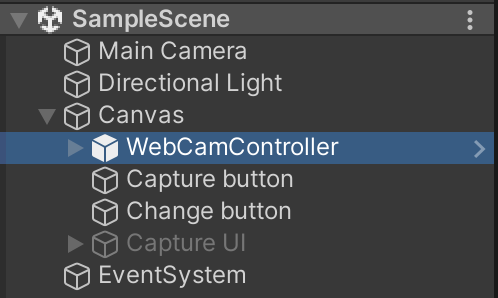
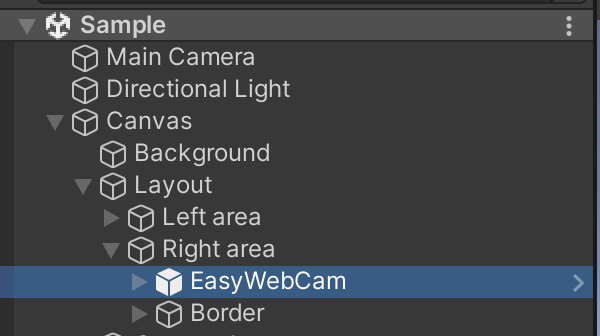
웹캠 포스트 내용 수정

diff --git a/_posts/22-12-03-web-cam-controller.md b/_posts/22-12-03-web-cam-controller.md
@@ -20,90 +20,90 @@ layout: post
 * 캡쳐
     * 프리뷰에 보이는 카메라 이미지를 캡쳐해서 Unity의 Texture2D 또는 Sprite로 내보내는 기능이다. 이 때에도 화면의 방향과 뒤집힘을 보정해야 한다.
 
-## WebCamController
+## EasyWebCam
 
-위의 요구사항들을 만족하는 WebCamTexture의 Wrapper인 [WebCamController](https://github.com/lklab/WebCamController)를 구현하였다. 다음은 WebCamController를 사용하는 방법에 대해 서술한다.
+위의 요구사항들을 만족하는 WebCamTexture의 Wrapper인 [EasyWebCam](https://github.com/lklab/EasyWebCam)를 구현하였다. 다음은 EasyWebCam을 사용하는 방법에 대해 서술한다.
 
 ### UI에서 프리뷰 영역 설정 
 
-[유니티 프로젝트](https://github.com/lklab/WebCamController)에서 `SampleScene` 씬을 열면, 아래 그림과 같이 `WebCamController` 프리팹을 확인할 수 있다.
+[유니티 프로젝트](https://github.com/lklab/EasyWebCam/tree/master/EasyWebCam)에서 `Sample/Sample` 씬을 열면, 아래 그림과 같이 `EasyWebCam` 프리팹을 확인할 수 있다.
 
 ![Prefab]({{site.baseurl}}/assets/post/22-12-03-web-cam-controller/prefab.png)
 
-이 프리팹의 `RectTransform`이 정의하는 영역이 프리뷰가 출력될 영역이다. `SampleScene` 씬에서는 전체화면으로 되어 있지만 화면의 일부 영역에만 프리뷰를 출력하도록 설정할 수 있다.
+이 프리팹의 `RectTransform`이 정의하는 영역이 프리뷰가 출력될 영역이다. `RectTransform`을 자유롭게 조절해서 프리뷰를 출력할 영역을 지정할 수 있다. 
 
-UI 상의 프리뷰 영역과 디바이스 카메라를 통해 받아온 이미지의 종횡비(Aspect ratio)가 다르다면 프리뷰 영역을 꽉 채우고 카메라 이미지의 나머지 부분은 잘리도록 되어 있다. 만약 프리뷰 영역에 빈 공간이 생기더라도 잘리지 않기를 원하면 `WebCamController` > `Viewport` > `RawImage` 게임오브젝트에 있는 `Aspect Ratio Fitter` 컴포넌트의 `Aspect Mode` 를 `Fit In Parent`로 설정하면 된다.
+UI 상의 프리뷰 영역과 디바이스 카메라를 통해 받아온 이미지의 종횡비(Aspect ratio)가 다르다면 프리뷰 영역을 꽉 채우고 카메라 이미지의 나머지 부분은 잘리도록 되어 있다. 만약 프리뷰 영역에 빈 공간이 생기더라도 잘리지 않기를 원하면 `EasyWebCam` > `Viewport` > `RawImage` 게임오브젝트에 있는 `Aspect Ratio Fitter` 컴포넌트의 `Aspect Mode` 를 `Fit In Parent`로 설정하면 된다.
 
-### WebCamController 인스펙터 설정
+### EasyWebCam 인스펙터 설정
 
-* `Web Cam Resolution`: 카메라의 해상도를 설정한다. 기기의 카메라에서 지원하지 않는 해상도인 경우 가장 비슷한 해상도로 설정된다. `WebCamController.StartWebCam()`의 파라미터로 해상도를 명시한 경우 이 값 대신 파라미터로 전달한 해상도가 사용된다.
-* `Web Cam FPS`: 카메라의 프레임률을 설정한다. 기기의 카메라에서 지원하지 않는 프레임률인 경우 가장 비슷한 프레임률로 설정된다. `WebCamController.StartWebCam()`의 파라미터로 프레임률을 명시한 경우 이 값 대신 파라미터로 전달한 프레임률이 사용된다.
-* `Use Front Facing`: 전면 카메라를 사용할지 여부를 설정한다. 만약 사용할 전면/후면 카메라가 기기에 없는 경우 `WebCamController.StartWebCam()`은 `Error.NotSupported`를 반환한다. `WebCamController.StartWebCam()`의 파라미터로 전면카메라 여부를 명시한 경우 이 값 대신 파라미터로 전달한 전면카메라 여부 값이 사용된다.
-* `Auto Resize Viewport`: 기기의 회전이나 카메라 초기화/변경 등으로 카메라의 속성이 변경될 경우 이를 감지해서 자동으로 뷰포트의 크기를 조절할지 여부를 설정한다. 최적화를 위해 이 값을 `false`로 설정하고 직접 `WebCamController.Resize()`를 호출하도록 구현할 수 있다.
+* `Web Cam Resolution`: 카메라의 해상도를 설정한다. 기기의 카메라에서 지원하지 않는 해상도인 경우 가장 비슷한 해상도로 설정된다. `EasyWebCam.WebCam.StartWebCam()`의 파라미터로 해상도를 명시한 경우 이 값 대신 파라미터로 전달한 해상도가 사용된다.
+* `Web Cam FPS`: 카메라의 프레임률을 설정한다. 기기의 카메라에서 지원하지 않는 프레임률인 경우 가장 비슷한 프레임률로 설정된다. `EasyWebCam.WebCam.StartWebCam()`의 파라미터로 프레임률을 명시한 경우 이 값 대신 파라미터로 전달한 프레임률이 사용된다.
+* `Use Front Facing`: 전면 카메라를 사용할지 여부를 설정한다. 만약 사용할 전면/후면 카메라가 기기에 없는 경우 `EasyWebCam.WebCam.StartWebCam()`은 `Error.NotSupported`를 반환한다. `EasyWebCam.WebCam.StartWebCam()`의 파라미터로 전면카메라 여부를 명시한 경우 이 값 대신 파라미터로 전달한 전면카메라 여부 값이 사용된다.
+* `Auto Resize Viewport`: 기기의 회전이나 카메라 초기화/변경 등으로 카메라의 속성이 변경될 경우 이를 감지해서 자동으로 뷰포트의 크기를 조절할지 여부를 설정한다. 최적화를 위해 이 값을 `false`로 설정하고 직접 `EasyWebCam.WebCam.Resize()`를 호출하도록 구현할 수 있다.
 * `Capture Thread Count`: 캡쳐하는 경우 이미지 회전/반전을 위해 이미지 복사가 일어나는데 이를 수행할 스레드의 개수를 설정한다.
 
 ### 초기화
 
-가장 먼저 `using LKWebCam;`를 선언한다.
+가장 먼저 `using EasyWebCam;`를 선언한다.
 
-그 다음에 `WebCamController` 인스턴스를 인스펙터를 통해 받아온다.
+그 다음에 `WebCam` 인스턴스를 인스펙터를 통해 받아온다.
 
 {% highlight csharp %}
-[SerializeField] private WebCamController _webCamController;
+[SerializeField] private WebCam _webCam;
 
 {% endhighlight %}
 
-`WebCamController.Initialize()`를 호출한다.
+`WebCam.Initialize()`를 호출한다.
 
 {% highlight csharp %}
 private void Start()
 {
-    _webCamController.Initialize();
+    _webCam.Initialize();
 }
 
 {% endhighlight %}
 
-`WebCamController.Initialize()`는 WebCamController.Awake()에서도 호출되기 때문에 반드시 호출하지 않아도 무방하나, 스크립트 실행순서 때문에 초기화하지 않고 사용하는 것을 방지하기 위해 호출하는 것을 권장한다.
+`WebCam.Initialize()`는 WebCam.Awake()에서도 호출되기 때문에 반드시 호출하지 않아도 무방하나, 스크립트 실행순서 때문에 초기화하지 않고 사용하는 것을 방지하기 위해 호출하는 것을 권장한다.
 
 ### 권한 요청
 
-`WebCamController.RequestPermission()`을 호출한다.
+`WebCam.RequestPermission()`을 호출한다.
 
 {% highlight csharp %}
 private void Start()
 {
-    _webCamController.Initialize();
-    _webCamController.RequestPermission((WebCamController.Error error) =>
+    _webCam.Initialize();
+    _webCam.RequestPermission((WebCam.Error error) =>
     {
-        if (error == WebCamController.Error.Success)
+        if (error == WebCam.Error.Success)
         { }
     });
 }
 
 {% endhighlight %}
 
-권한을 성공적으로 획득하면 콜백 파라미터로 `WebCamController.Error.Success`를 받아온다. 앱이 이미 권한을 갖고 있는 경우에도 콜백 파라미터로 `WebCamController.Error.Success`를 받아온다.
+권한을 성공적으로 획득하면 콜백 파라미터로 `WebCam.Error.Success`를 받아온다. 앱이 이미 권한을 갖고 있는 경우에도 콜백 파라미터로 `WebCam.Error.Success`를 받아온다.
 
-사용자가 권한을 거부한 경우 콜백 파라미터로 `WebCamController.Error.Permission`을 받아온다.
+사용자가 권한을 거부한 경우 콜백 파라미터로 `WebCam.Error.Permission`을 받아온다.
 
 ### 프리뷰 시작
 
-권한을 성공적으로 받아온 경우 `WebCamController.StartWebCam()`을 호출해서 프리뷰를 시작한다.
+권한을 성공적으로 받아온 경우 `WebCam.StartWebCam()`을 호출해서 프리뷰를 시작한다.
 
 {% highlight csharp %}
 private void Start()
 {
-    _webCamController.Initialize();
-    _webCamController.RequestPermission((WebCamController.Error error) =>
+    _webCam.Initialize();
+    _webCam.RequestPermission((WebCam.Error error) =>
     {
-        if (error == WebCamController.Error.Success)
-            _webCamController.StartWebCam();
+        if (error == WebCam.Error.Success)
+            _webCam.StartWebCam();
     });
 }
 
 {% endhighlight %}
 
-파라미터가 없는 `WebCamController.StartWebCam()`을 호출한 경우 다음 항목들은 인스펙터의 `WebCamController` 컴포넌트에 설정된대로 프리뷰가 시작된다.
+파라미터가 없는 `WebCam.StartWebCam()`을 호출한 경우 다음 항목들은 인스펙터의 `WebCam` 컴포넌트에 설정된대로 프리뷰가 시작된다.
 
 * 전면카메라 또는 후면카메라
     * 전면카메라인 경우 자동으로 좌우반전이 적용됨
@@ -112,20 +112,20 @@ private void Start()
 
 또는 다음 함수를 호출해서 위의 설정값을 직접 지정해줄 수 있다.
 
-* `WebCamController.StartWebCam(bool useFrontFacing, Vector2Int resolution, int fps, bool flipHorizontally)`
-* `WebCamController.StartWebCam(int deviceIndex, Vector2Int resolution, int fps, bool flipHorizontally)`
-* `WebCamController.StartWebCam(WebCamDevice device, Vector2Int resolution, int fps, bool flipHorizontally)`
+* `WebCam.StartWebCam(bool useFrontFacing, Vector2Int resolution, int fps, bool flipHorizontally)`
+* `WebCam.StartWebCam(int deviceIndex, Vector2Int resolution, int fps, bool flipHorizontally)`
+* `WebCam.StartWebCam(WebCamDevice device, Vector2Int resolution, int fps, bool flipHorizontally)`
 
-프리뷰를 더 이상 사용하지 않을 경우 `WebCamController.StopWebCam()`을 호출하면 된다.
+프리뷰를 더 이상 사용하지 않을 경우 `WebCam.StopWebCam()`을 호출하면 된다.
 
 ### 캡쳐
 
-현재 프리뷰 화면을 캡쳐하고 싶은 경우 `WebCamController.Capture()`를 호출해서 `Texture2D` 객체를 받아오면 된다.
+현재 프리뷰 화면을 캡쳐하고 싶은 경우 `WebCam.Capture()`를 호출해서 `Texture2D` 객체를 받아오면 된다.
 
 {% highlight csharp %}
 _captureButton.onClick.AddListener(delegate
 {
-    Texture2D texture = _webCamController.Capture();
+    Texture2D texture = _webCam.Capture();
 });
 
 {% endhighlight %}
@@ -135,7 +135,7 @@ _captureButton.onClick.AddListener(delegate
 {% highlight csharp %}
 _captureButton.onClick.AddListener(delegate
 {
-    Texture2D texture = _webCamController.Capture();
+    Texture2D texture = _webCam.Capture();
     Sprite sprite = Sprite.Create(
         texture,
         new Rect(0.0f, 0.0f, texture.width, texture.height),
@@ -156,7 +156,7 @@ _captureButton.onClick.AddListener(delegate
         Destroy(mCapturedImage);
     }
 
-    Texture2D texture = _webCamController.Capture();
+    Texture2D texture = _webCam.Capture();
     mCapturedImage = Sprite.Create(
         texture,
         new Rect(0.0f, 0.0f, texture.width, texture.height),
@@ -180,7 +180,7 @@ private void OnDestroy()
 }
 {% endhighlight %}
 
-`WebCamController.Capture()`는 현재 기기의 orientation과 전면 카메라 여부에 따라 rotation 및 flip을 자동으로 계산한다. 만약 해당 값들을 직접 지정하고 싶은 경우 `WebCamController.Capture(float rotationAngle, bool flipHorizontally, bool clip)` 함수를 사용하면 된다. 이 때 이미지를 회전하고 반전하는 과정에서 이미지 복사가 일어나는데, 비동기적으로 복사가 완료된 후 콜백을 받고 싶다면 `WebCamController.Capture()` 대신 `WebCamController.CaptureAsync()`를 호출하면 된다.
+`WebCam.Capture()`는 현재 기기의 orientation과 전면 카메라 여부에 따라 rotation 및 flip을 자동으로 계산한다. 만약 해당 값들을 직접 지정하고 싶은 경우 `WebCam.Capture(float rotationAngle, bool flipHorizontally, bool clip)` 함수를 사용하면 된다. 이 때 이미지를 회전하고 반전하는 과정에서 이미지 복사가 일어나는데, 비동기적으로 복사가 완료된 후 콜백을 받고 싶다면 `WebCam.Capture()` 대신 `WebCam.CaptureAsync()`를 호출하면 된다.
 
 카메라 원본 이미지와 UI 상의 프리뷰 영역의 종횡비가 달라 원본 이미지가 잘려서 출력되는 경우 캡쳐된 이미지도 화면에 보이는 부분만 캡쳐되도록 이미지를 자른다. 만약 이미지를 자르지 않기 원하면 `clip` 파라미터를 `false` 로 설정하면 된다.
 
@@ -188,7 +188,7 @@ private void OnDestroy()
 
 ### 권한 요청
 
-권한 요청은 `WebCamController.AcquireWebCamPermission()` 함수에서 수행한다. 크게 안드로이드 부분과 iOS 부분으로 나뉘어 있다.
+권한 요청은 `WebCam.AcquireWebCamPermission()` 함수에서 수행한다. 크게 안드로이드 부분과 iOS 부분으로 나뉘어 있다.
 
 Android
 
@@ -269,13 +269,13 @@ else
 
 {% endhighlight %}
 
-뷰포트 영역을 제어하는 `WebCamViewport`에 `WebCamTexture` 객체를 전달한다. 이후 `WebCamViewport` 내부의 `RawImage` 컴포넌트에서 프리뷰가 UI에 출력된다. 전면 카메라를 사용하는 등의 이유로 좌우반전이 필요하면 뷰포트의 x 스케일 값을 `-1.0f`로 설정한다.
+뷰포트 영역을 제어하는 `Viewport`에 `WebCamTexture` 객체를 전달한다. 이후 `Viewport` 내부의 `RawImage` 컴포넌트에서 프리뷰가 UI에 출력된다. 전면 카메라를 사용하는 등의 이유로 좌우반전이 필요하면 뷰포트의 x 스케일 값을 `-1.0f`로 설정한다.
 
-`_autoResizeViewport`가 `true`로 설정된 경우 `WebCamViewport`의 Auto resizing 기능을 활성화해서 기기의 회전이나 카메라의 회전/반전 속성이 변경된 경우 자동으로 뷰포트를 그에 맞게 업데이트한다.
+`_autoResizeViewport`가 `true`로 설정된 경우 `Viewport`의 Auto resizing 기능을 활성화해서 기기의 회전이나 카메라의 회전/반전 속성이 변경된 경우 자동으로 뷰포트를 그에 맞게 업데이트한다.
 
 ### Rotation 및 Flip
 
-프리뷰를 올바르게 출력하려면 기기의 Orientation에 따라 카메라로 들어오는 이미지를 회전하거나 반전해야 한다. 얼마나 회전해야 하는지와 반전해야 하는지 여부는 `WebCamTexture.videoRotationAngle`과 `WebCamTexture.videoVerticallyMirrored` 값을 통해 확인할 수 있다. `WebCamController`에서는 `WebCamViewport.ResizeInternal()` 함수에 해당 기능이 구현되어 있다.
+프리뷰를 올바르게 출력하려면 기기의 Orientation에 따라 카메라로 들어오는 이미지를 회전하거나 반전해야 한다. 얼마나 회전해야 하는지와 반전해야 하는지 여부는 `WebCamTexture.videoRotationAngle`과 `WebCamTexture.videoVerticallyMirrored` 값을 통해 확인할 수 있다. `EasyWebCam`에서는 `Viewport.ResizeInternal()` 함수에 해당 기능이 구현되어 있다.
 
 {% highlight csharp %}
 /* setup params */
@@ -309,10 +309,10 @@ else
 
 rotation과 상하반전은 `_rawImage` 오브젝트에 적용한다. 여기서 90도 또는 270도 회전되는 경우 Viewport 크기에 맞게 `_rawImage`를 확대하거나 축소해야 한다. 이를 위해 `scale` 변수를 계산하여 적용하였다.
 
-`WebCamViewport.ResizeInternal()` 함수는 `WebCamController` 객체의 값이 바뀔 때에만 호출되므로, 만약 UI에서 프리뷰 화면을 변경한 경우 직접 `WebCamController.Resize()` 함수를 호출해서 화면에 프리뷰가 올바르게 출력되도록 할 수 있다.
+`Viewport.ResizeInternal()` 함수는 `WebCam` 객체의 값이 바뀔 때에만 호출되므로, 만약 UI에서 프리뷰 화면을 변경한 경우 직접 `WebCam.Resize()` 함수를 호출해서 화면에 프리뷰가 올바르게 출력되도록 할 수 있다.
 
 ### 캡쳐
 
-현재 프레임의 카메라 화면은 `WebCamTexture` 객체를 통해 가져올 수 있는데, 이전에 언급한 것과 같이 이미지를 회전하고 반전해야 한다. `WebCamTexture.GetPixels32()`를 통해 픽셀별 컬러를 가져온 후 회전, 반전에 따라 새로운 텍스쳐에 알맞은 컬러를 대입한다. 따라서 이미지 복사를 수행해야 하므로 스레드를 사용해서 병렬 처리하도록 되어 있다. 이 때 사용할 스레드의 개수는 인스펙터의 `WebCamController` 컴포넌트에서 `Capture Thread Count` 값으로 설정할 수 있다.
+현재 프레임의 카메라 화면은 `WebCamTexture` 객체를 통해 가져올 수 있는데, 이전에 언급한 것과 같이 이미지를 회전하고 반전해야 한다. `WebCamTexture.GetPixels32()`를 통해 픽셀별 컬러를 가져온 후 회전, 반전에 따라 새로운 텍스쳐에 알맞은 컬러를 대입한다. 따라서 이미지 복사를 수행해야 하므로 스레드를 사용해서 병렬 처리하도록 되어 있다. 이 때 사용할 스레드의 개수는 인스펙터의 `WebCam` 컴포넌트에서 `Capture Thread Count` 값으로 설정할 수 있다.
 
-캡쳐하는 코드는 [링크](https://github.com/lklab/WebCamController/blob/master/Assets/Scripts/WebCamCaptureWorker.cs)로 첨부한다.
+캡쳐하는 코드는 [링크](https://github.com/lklab/EasyWebCam/blob/master/EasyWebCam/Assets/EasyWebCam/Runtime/Scripts/MultithreadCaptureWorker.cs)로 첨부한다.
